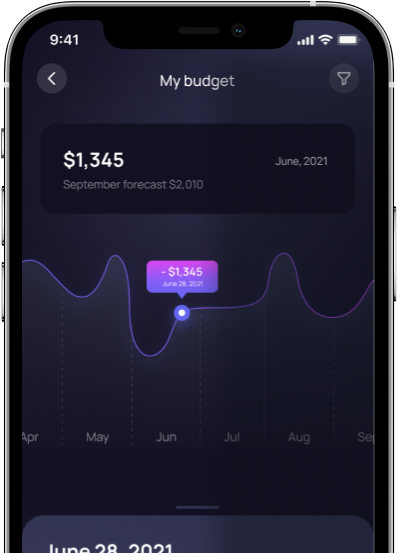
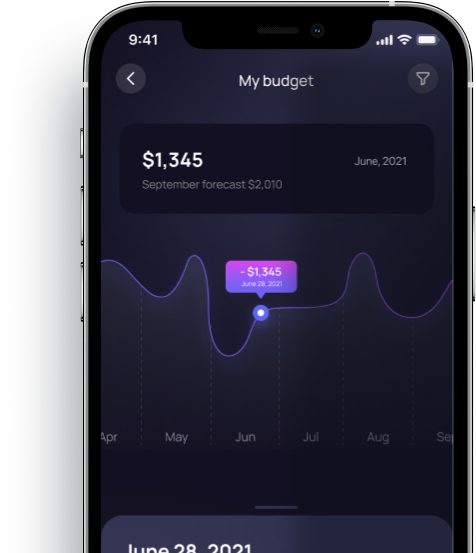
cleaned the files in resources

diff --git a/index.html b/index.html
@@ -90,7 +90,7 @@
                 alt="Iphone showing transactions in the Silicon money transfer banking app" />
             </div>
             <div class="back-img hidden-S">
-              <img src="resources/Pictures desktop/Group 4.png" alt="Iphone showing budget" />
+              <img src="resources/Pictures desktop/Iphone 12 Pro bottom-header.png" alt="Iphone showing budget" />
             </div>
           </div>
         </header>
